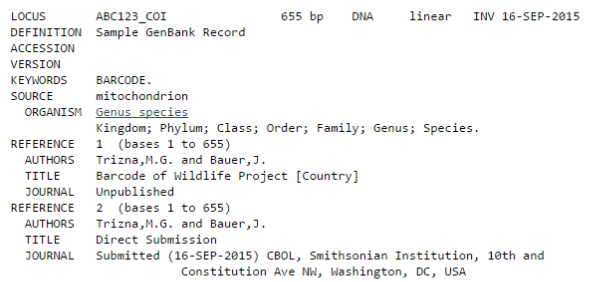
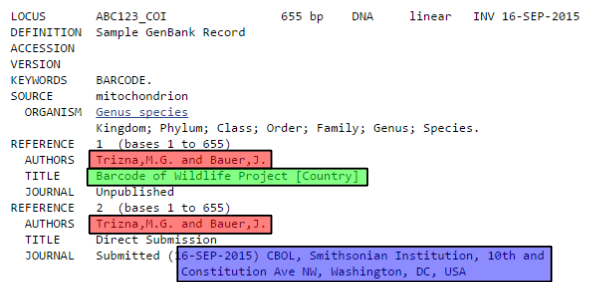
first attempt at adding a caption to an image

Changed region(s): [[0.121, 0.7376, 0.9378, 1.0], [0.121, 0.5106, 0.6353, 0.6809]]

diff --git a/Docs/gb_upload.rst b/Docs/gb_upload.rst
@@ -32,7 +32,7 @@ You will see a window appear that has the following sections. Each section is de
 
 Submission Details
 ------------------
-The first part of the GenBank submission deals with filling out the contact details and attributions for your sequence submission, as well as choosing how to submit to GenBank.
+The first part of the GenBank submission deals with filling out the contact details and attributions for your sequence submission, as well as choosing how to submit to GenBank. Give the "Submission Name" field a descriptive name for your submission. This entry will not show up in the GenBank record. Also, be sure to select the option of "Save a local file (.tar)".
 
 .. image:: /images/submission_details.png
   :align: center
@@ -44,11 +44,36 @@ Click on the "Edit Publisher Details…" button to bring up the Publisher Detail
   :align: center
   :target: /en/latest/_images/publisher_details.png
 
-Fill out the top section with the contact information for your submission. Note in the screenshot that I blacked out "First Name", "Last Name", "Phone", "Fax", and "Email". These fields will not be shown in the GenBank record, but the others will.
+Contact Information
+~~~~~~~~~~~~~~~~~~~
 
-.. image:: /images/gb_record_publisher_details.png
+Fill out the top section with the contact information for your submission. This will be the information that GenBank staff will use to contact the submitter with questions or updates for the submission.
+
+Affiliation
+~~~~~~~~~~~
+
+Fill out the relevant information for the institution that produced these sequences. The entries in this section will show up in the GenBank record, so be sure to provide accurate and consistent information.
+
+Sequence Authors
+~~~~~~~~~~~~~~~~
+
+List as many people who were involved in the production of these sequences as you can think of. Keep in mind that only these people will be authorized to make changes to the GenBank record.
+
+Consortium
+~~~~~~~~~~
+
+Always fill this in as "Barcode of Wildlife Project". This will allow for easier searching and filtering of all BWP-generated sequences.
+
+Publication Status and Title
+~~~~~~~~~~~~~~~~~~~~~~~~~~~~
+
+We will be generating several different scientific publications about the sequences generated from the Barcode of Wildlife Project, but for now select "Unpublished" for the Publication Status, and "Barcode of Wildlife Project [country]" (where [country] is the name of the BWP partner country that produced the sequence.) Again, this allows for easier searching and filtering, and we will be able to add publications to sequences as they are published.
+
+.. figure:: /images/gb_record_publisher_details.png
   :align: center
   :target: /en/latest/_images/gb_record_publisher_details.png
+
+  This portion of a sample GenBank record shows how the different parts of the Publisher Details section will appear when the record is published.
 
 Field Mapping
 -------------
